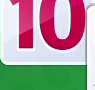
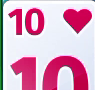
Add real suit detection and fix foundation/rank read bugs
Wires up real per-card suit detection (suit_templates/) end-to-end and
stops assign_pseudo_suits from overwriting it with scan-order-based
guesses, which is what caused the solver/board desync where same-rank
same-color cards would appear to swap identity between reads.

Replaces the single fixed-x foundation crop (which bled across
overlapping fanned piles) with detect_foundation_slots(), a
sliding-window template match that dynamically finds each populated
pile's corner digit regardless of how many piles are currently up.

Also fixes two misaligned templates_last templates (10.png, A.png)
that were cropped with background bleed and consistently lost to
wrong-rank matches - the A.png fix alone took Ace detections across
112 sample frames from 5 to 129.

diff --git a/board_reader_lib.py b/board_reader_lib.py
@@ -5,8 +5,12 @@ import numpy as np
 
 STEP = 50
 RANK_W, RANK_H = 45, 45
-SUIT_X_OFF, SUIT_Y_OFF = 5, 42
-SUIT_W, SUIT_H = 35, 22
+# The suit pip sits beside the rank digit in the same top corner index, not
+# below it: mirror the rank patch's box onto the right half of the card.
+# (The old offset (5, 42, 35, 22) undershot into rank-glyph tail pixels
+# instead of the actual suit icon - see suit-detection investigation notes.)
+SUIT_X_OFF, SUIT_Y_OFF = 45, 0
+SUIT_W, SUIT_H = 45, 45
 PAD = 15
 HIDDEN_CARD_H = 30
 TOP_RESIDUAL_TOLERANCE = 5
@@ -21,6 +25,16 @@ FOUNDATION_X = [472]
 SLOT_Y = 303
 SLOT_W, SLOT_H = 95, 90
 
+# Foundation piles render fanned/overlapping in this UI - only the frontmost
+# pile shows a full card, piles behind it show just a sliver of their own
+# corner rank digit - so a single fixed x either misses piles or bleeds
+# across several (a single x=472 crop was observed pulling in two different
+# piles' digits at once). FOUNDATION_SCAN_X0 starts just past free cell 4's
+# right edge (310 + SLOT_W = 405) so free-cell content already handled by
+# read_slot() below can't bleed in and get mistaken for a foundation pile.
+FOUNDATION_SCAN_X0, FOUNDATION_SCAN_X1 = 410, 650
+FOUNDATION_PEAK_THRESHOLD = 0.65
+
 def load_templates(folder):
     t = {}
     for path in glob.glob(f"{folder}/*.png"):
@@ -32,6 +46,7 @@ def load_templates(folder):
 
 TEMPLATES = load_templates("templates")
 TEMPLATES_LAST = load_templates("templates_last")
+SUIT_TEMPLATES = load_templates("suit_templates")
 
 def classify_suit_color(patch):
     gray = cv2.cvtColor(patch, cv2.COLOR_BGR2GRAY)
@@ -58,6 +73,85 @@ def match_rank(patch, template_set):
             best_score = score
             best_name = name
     return best_name, best_score
+
+# Suit templates (S/H/D/C) are matched with the exact same shape-matching
+# approach as rank templates - match_rank() is generic over its template
+# set, so it's reused as-is rather than duplicating the logic. Spade and
+# club in particular are close enough in shape that a single example per
+# suit produces near-tied scores (measured ~0.92 vs ~0.91 on a real
+# misclassification), so suit templates support multiple named variants
+# per suit (files "S_1.png", "S_2.png", ...) and match_suit() collapses
+# the winning variant back down to its base suit letter.
+#
+# color is required and narrows the template set to the 2 same-color
+# candidates (S/C for BLACK, H/D for RED) before matching. classify_suit_color
+# is reliable on its own (color, unlike shape, isn't confusable), so this
+# guarantees a black card can never be scored against a red template (or
+# vice versa) - a cross-color mismatch measured in practice (a black
+# card's best raw template score sometimes lands on a red suit) that pure
+# shape-matching over all 4 templates can't rule out on its own.
+def match_suit(patch, color, template_set=SUIT_TEMPLATES):
+    candidates = {"S", "C"} if color == "BLACK" else {"H", "D"} if color == "RED" else None
+    narrowed = template_set if candidates is None else {
+        name: tmpl for name, tmpl in template_set.items() if name.split("_")[0] in candidates
+    }
+    name, score = match_rank(patch, narrowed)
+    return name.split("_")[0], score
+
+def detect_foundation_slots(img):
+    """Dynamically locate each visible foundation pile's corner rank digit,
+    instead of reading a single fixed x-coordinate. Piles behind the
+    frontmost one only reveal a sliver of their own corner index, so
+    contour/bbox segmentation can't separate them (overlapping cards fuse
+    into one blob) - this scans the whole foundation band with the existing
+    rank templates via sliding-window template matching (cv2.matchTemplate
+    naturally scores every x-shift in one call) and returns one (x, rank,
+    score) per local peak above threshold. Unpopulated piles simply produce
+    no peak, so this adapts to however many piles currently have cards
+    without needing to know that count in advance.
+    """
+    def scan(template_set, h):
+        strip = img[SLOT_Y:SLOT_Y+h, FOUNDATION_SCAN_X0:FOUNDATION_SCAN_X1]
+        gray = cv2.cvtColor(strip, cv2.COLOR_BGR2GRAY)
+        _, binary = cv2.threshold(gray, 0, 255, cv2.THRESH_BINARY_INV + cv2.THRESH_OTSU)
+        padded = cv2.copyMakeBorder(binary, PAD, PAD, PAD, PAD, cv2.BORDER_CONSTANT, value=0)
+        best_score, best_name = None, None
+        for name, tmpl in template_set.items():
+            if tmpl.shape[0] > padded.shape[0] or tmpl.shape[1] > padded.shape[1]:
+                continue
+            result = cv2.matchTemplate(padded, tmpl, cv2.TM_CCOEFF_NORMED)
+            row = result.max(axis=0)
+            if best_score is None:
+                best_score, best_name = row, np.full(row.shape, name, dtype=object)
+            else:
+                mask = row > best_score
+                best_score = np.where(mask, row, best_score)
+                best_name[mask] = name
+        return best_score, best_name
+
+    # TEMPLATES catches piles partially covered by the fan (compact corner
+    # index only); TEMPLATES_LAST catches the frontmost, fully-open pile
+    # (bigger center digit) - take whichever scores higher at each x.
+    score_a, name_a = scan(TEMPLATES, RANK_H)
+    score_b, name_b = scan(TEMPLATES_LAST, 90)
+    length = min(len(score_a), len(score_b))
+    score = np.maximum(score_a[:length], score_b[:length])
+    name = np.where(score_a[:length] >= score_b[:length], name_a[:length], name_b[:length])
+
+    slots = []
+    i = 0
+    while i < length:
+        if score[i] > FOUNDATION_PEAK_THRESHOLD:
+            j = i
+            while j < length and score[j] > FOUNDATION_PEAK_THRESHOLD:
+                j += 1
+            peak = i + int(np.argmax(score[i:j]))
+            x = FOUNDATION_SCAN_X0 + peak - PAD
+            slots.append((x, str(name[peak]), round(float(score[peak]), 2)))
+            i = j
+        else:
+            i += 1
+    return slots
 
 def detect_column_height(img, x):
     """Detect how tall the card stack in this column currently is, using
@@ -123,22 +217,29 @@ def read_board(frame_path):
 
         # face-down cards have no readable rank; represent them as unknown
         # rather than feeding their pixels into the rank matcher
-        col_cards.extend({"rank": "?", "color": "?", "score": 0.0} for _ in range(hidden_count))
+        col_cards.extend({"rank": "?", "suit": "?", "color": "?", "score": 0.0} for _ in range(hidden_count))
 
         y_start = TABLEAU_Y_TOP + hidden_count * HIDDEN_CARD_H
         for row in range(num_rows):
             y = y_start + row * STEP
             is_last = (row == num_rows - 1)
 
+            # The suit pip lives in the same top-corner index box regardless
+            # of whether this is a compact stacked row or a fully-revealed
+            # "last" card - both render the small rank+suit index at the
+            # same relative position, so one crop formula covers both.
+            suit_patch = img[y+SUIT_Y_OFF:y+SUIT_Y_OFF+SUIT_H, x+SUIT_X_OFF:x+SUIT_X_OFF+SUIT_W]
+            color = classify_suit_color(suit_patch)
+            suit, suit_score = match_suit(suit_patch, color)
+
             if is_last:
                 rank_patch = img[y:y+90, x:x+95]
                 name, score = match_rank(rank_patch, TEMPLATES_LAST)
-                color = classify_suit_color(img[y+20:y+40, x+55:x+90])
             else:
                 rank_patch = img[y:y+RANK_H, x:x+RANK_W]
                 name, score = match_rank(rank_patch, TEMPLATES)
-                suit_patch = img[y+SUIT_Y_OFF:y+SUIT_Y_OFF+SUIT_H, x+SUIT_X_OFF:x+SUIT_X_OFF+SUIT_W]
-                color = classify_suit_color(suit_patch)
+
+            score = min(score, suit_score)
 
             # a top offset that doesn't cleanly fit a whole number of hidden
             # cards means this frame is mid-animation, not a stable state -
@@ -146,7 +247,7 @@ def read_board(frame_path):
             if not reliable:
                 score = 0.0
 
-            col_cards.append({"rank": name, "color": color, "score": round(float(score), 2)})
+            col_cards.append({"rank": name, "suit": suit, "color": color, "score": round(float(score), 2)})
 
         board[f"col{col_idx}"] = col_cards
 
@@ -156,10 +257,21 @@ def read_board(frame_path):
         if gray.std() < 15:
             return None
         name, score = match_rank(patch, TEMPLATES_LAST)
-        color = classify_suit_color(img[SLOT_Y+20:SLOT_Y+40, x+55:x+90])
-        return {"rank": name, "color": color, "score": round(float(score), 2)}
+        suit_patch = img[SLOT_Y+SUIT_Y_OFF:SLOT_Y+SUIT_Y_OFF+SUIT_H, x+SUIT_X_OFF:x+SUIT_X_OFF+SUIT_W]
+        color = classify_suit_color(suit_patch)
+        suit, suit_score = match_suit(suit_patch, color)
+        score = min(score, suit_score)
+        return {"rank": name, "suit": suit, "color": color, "score": round(float(score), 2)}
 
     board["free_cells"] = [read_slot(x) for x in FREE_CELL_X]
-    board["foundation"] = [read_slot(x) for x in FOUNDATION_X]
+
+    foundation = []
+    for x, rank, rank_score in detect_foundation_slots(img):
+        suit_patch = img[SLOT_Y+SUIT_Y_OFF:SLOT_Y+SUIT_Y_OFF+SUIT_H, x+SUIT_X_OFF:x+SUIT_X_OFF+SUIT_W]
+        color = classify_suit_color(suit_patch)
+        suit, suit_score = match_suit(suit_patch, color)
+        score = min(rank_score, suit_score)
+        foundation.append({"rank": rank, "suit": suit, "color": color, "score": round(float(score), 2)})
+    board["foundation"] = foundation
 
     return board

diff --git a/solitaire_auto_bot.py b/solitaire_auto_bot.py
@@ -36,6 +36,14 @@ def assign_pseudo_suits(board):
     def process_card(card):
         if card is None or card.get("rank") == "?" or card.get("color") == "?":
             return
+        # board_reader_lib now reads the real suit from the card's suit pip;
+        # only fall back to alternating pseudo-suits when that read is
+        # missing. Pseudo-suits are assigned by scan-order encounter, which
+        # isn't stable across board-read cycles (a same-rank same-color
+        # card can flip S<->C or H<->D between reads), causing solver
+        # desync - a real suit read doesn't have that problem.
+        if card.get("suit") in ("S", "H", "D", "C"):
+            return
         rank = card["rank"]
         color = card["color"]
         
